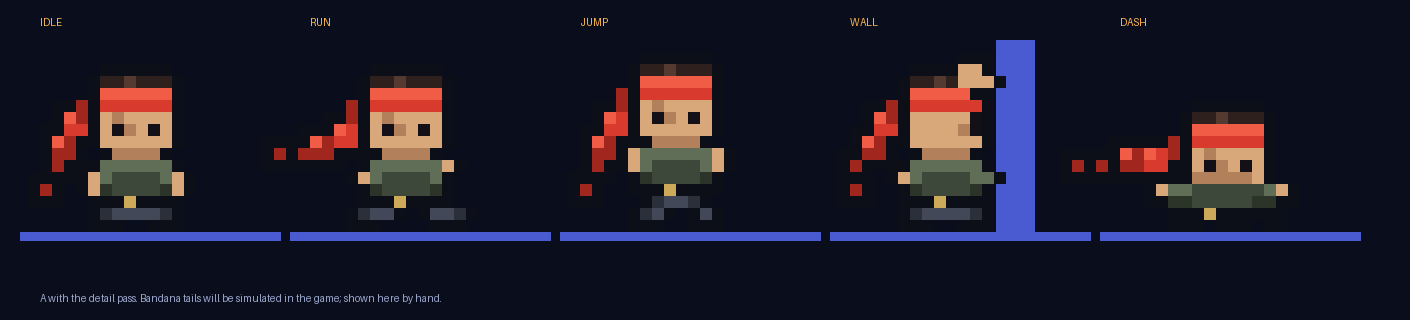
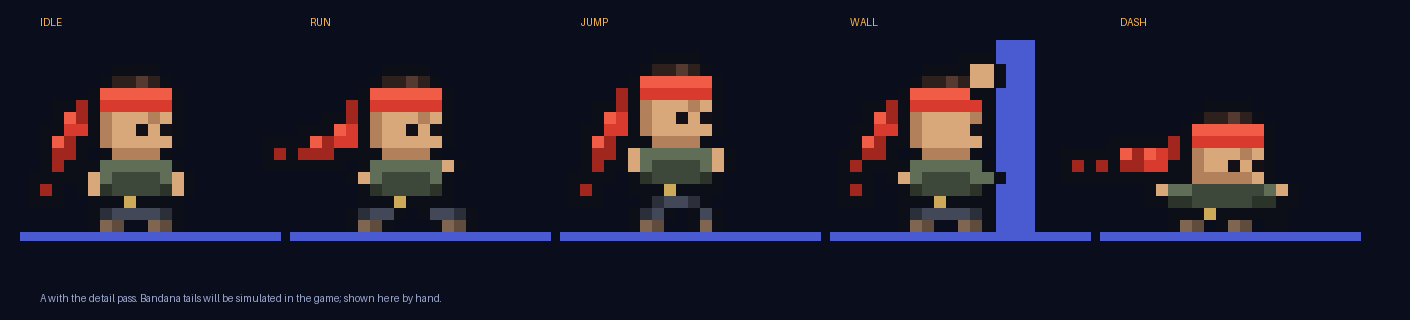
Hero concept A: three-quarter face, rounder head, brown boots
Claude-Session: https://claude.ai/code/session_01NZkKt2otoYDRNuWNpVBUzY

diff --git a/src/hero-wolf/detail.py b/src/hero-wolf/detail.py
@@ -11,54 +11,55 @@ C = {
     'y': (205, 170, 90),                              # buckle
     'P': (66, 72, 88), 'p': (42, 47, 58),             # pants highlight, pants
     'w': (240, 236, 220),
+    'c': (96, 76, 60), 'C': (128, 102, 80),          # boots, boot highlight
 }
 
 POSES = {
 'idle': """
 ................
 ................
-.....oooooo.....
-....oddDdddo....
+......oooo......
+.....oddDdo.....
 ....oBBBBBBo....
 ...kobbbbbbo....
-...kosSsssso....
-....oseSseso....
-....osssssso....
+...koSsssSso....
+....oSsseseo....
+....oSssssso....
 .....oSSSSo.....
 ....oHHHHHHo....
 ...osHhhhhHso...
 ...osvhhhhvso...
 ....oooyoooo....
 ....opPPPPpo....
-....ooo..ooo....
+....oCc..Cco....
 """,
 'run': """
 ................
 ................
-.....oooooo.....
-....oddDdddo....
+......oooo......
+.....oddDdo.....
 ....oBBBBBBo....
 ...kobbbbbbo....
-...kosSsssso....
-....oseSseso....
-....osssssso....
+...koSsssSso....
+....oSsseseo....
+....oSssssso....
 .....oSSSSo.....
 ....oHHHHHHso...
 ...osHhhhhHo....
 ....ovhhhhvo....
 ....oooyoooo....
 ...opPPo.oPPpo..
-...ooo....ooo...
+...oCco...oCco..
 """,
 'jump': """
 ................
-.....oooooo.....
-....oddDdddo....
+......oooo......
+.....oddDdo.....
 ....oBBBBBBo....
 ...kobbbbbbo....
-...kosSsssso....
-....oseSseso....
-....osssssso....
+...koSsssSso....
+....oSsseseo....
+....oSssssso....
 .....oSSSSo.....
 ...osHHHHHHso...
 ...osHhhhhHso...
@@ -66,25 +67,25 @@ POSES = {
 ....oooyoooo....
 .....opPPpo.....
 ....opPo.oPo....
-....ooo..ooo....
+....oCc..oCo....
 """,
 'wall': """
 ................
 .........ooo....
-.....oooosso....
-....oddDdssso...
+......oooosso...
+.....oddDdsso...
 ....oBBBBBoo....
 ...kobbbbbbo....
-...kossssseo....
-....ossssSeo....
-....osssssso....
+...koSssssSo....
+....oSsssseo....
+....oSssssso....
 .....oSSSSo.....
 ....oHHHHHHo....
 ...osHhhhhHHo...
 ....ovhhhhvo....
 ....oooyoooo....
 ....opPPPPpo....
-....ooo..ooo....
+....oCc..Cco....
 """,
 'dash': """
 ................
@@ -92,17 +93,17 @@ POSES = {
 ................
 ................
 ................
-......oooooo....
-.....oddDdddo...
+.......oooo.....
+......oddDdo....
 .....oBBBBBBo...
 ....kobbbbbbo...
-....kosSsssso...
-.....oseSseso...
+....koSsssSso...
+.....oSsseseo...
 ...oooSSSSSso...
 ..osHHhhhhhhHso.
 ..oovvhhhhhvvoo.
 ....oooyoooooo..
-....ooo.ooo.oo..
+....oCc.oCc.oo..
 """,
 }
 TAILS = {
